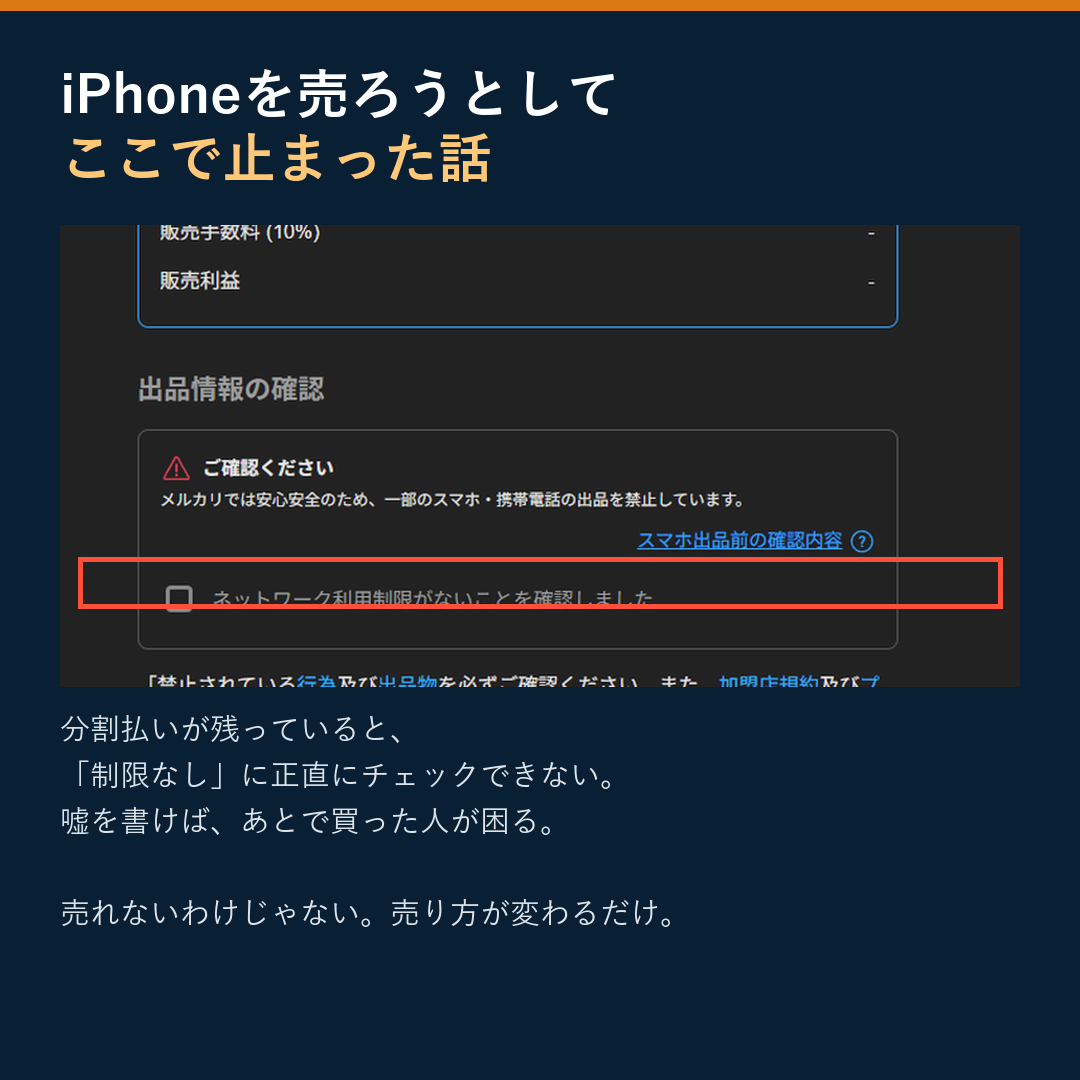
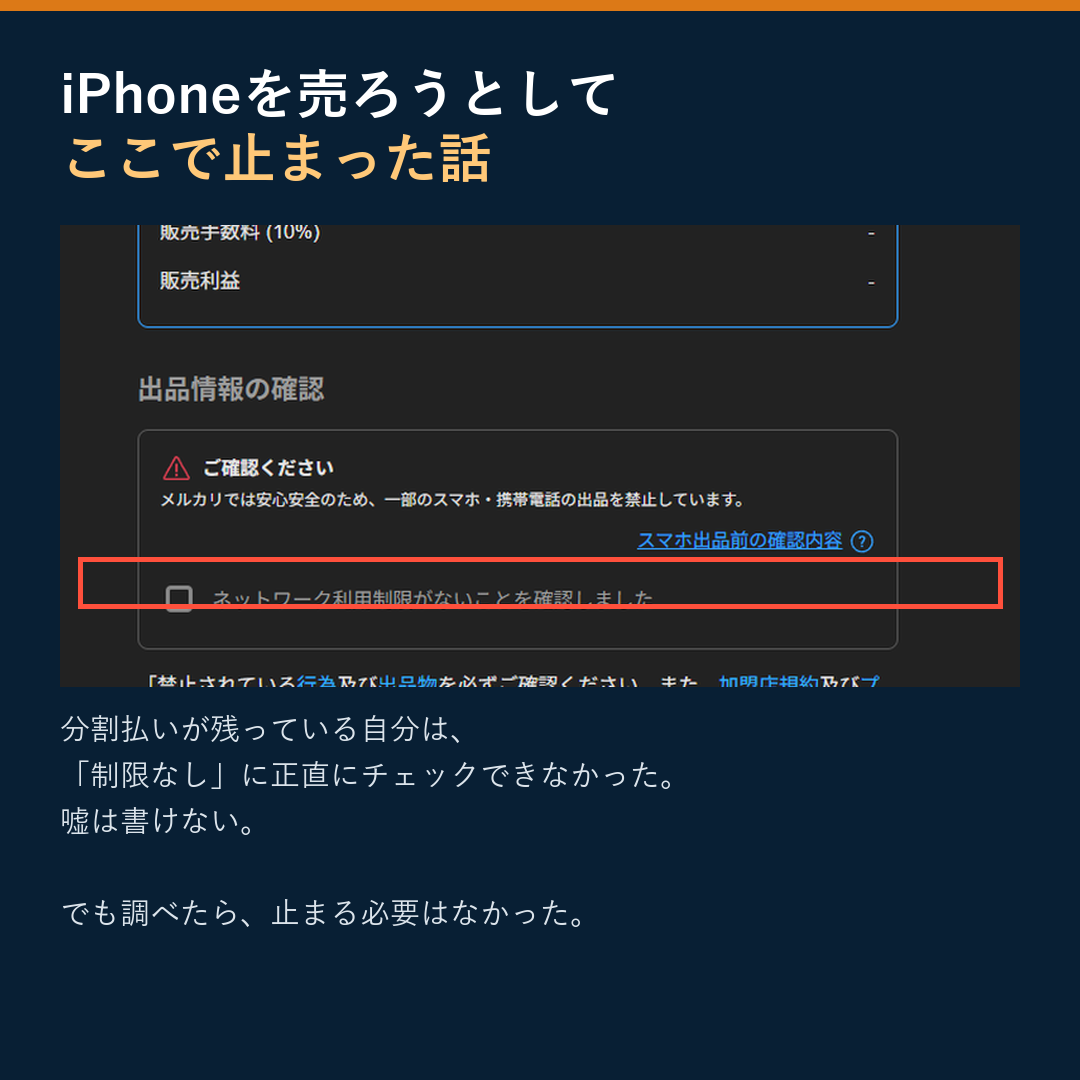
LP/content: 分割払いFAQ2問追加＋item1の利用制限条件を「○または−」に修正、コンテンツ画像の赤ロム混同を訂正
売却体験コンテンツ(docs/CONTENT-SELLING-STORY-DESIGN.md)の実装。
- index.html: FAQに「分割払いが残っているスマホは送れますか」「判定はどこで見られますか」を追加。
  item1 の受付条件を実体験(Apple直販SIMフリー=−)に合わせ「○または−」に。
- x-zandebug.png/ig-zandebug.png: 3段落目「払いが滞ると買った人の端末が使えなくなる」
  (キャリア分割の話でPaidy残債に非該当=赤ロム混同)を「嘘を書けば売れる。でも書けない」に差し替え。

diff --git a/index.html b/index.html
@@ -340,7 +340,7 @@
         <h2>送れるもの</h2>
         <p class="lead">中古市場があるものは、スマホに限らず受け付けます。値段に効くポイントも書いておきます。</p>
         <div class="grid">
-          <div class="card"><img class="card-img" src="assets/items/item1.webp" alt="中古のスマホとタブレット" width="768" height="512" loading="lazy" /><h3>スマホ・タブレット</h3><p>バッテリー最大容量・SIMロック・ネットワーク利用制限「○」が条件。初期化とロック解除をお願いします。</p></div>
+          <div class="card"><img class="card-img" src="assets/items/item1.webp" alt="中古のスマホとタブレット" width="768" height="512" loading="lazy" /><h3>スマホ・タブレット</h3><p>バッテリー最大容量・SIMロック・ネットワーク利用制限「○」または「−（対象外）」が条件。初期化とロック解除をお願いします。</p></div>
           <div class="card"><img class="card-img" src="assets/items/item2.webp" alt="使っていたバッグと財布" width="768" height="512" loading="lazy" /><h3>ブランドバッグ・財布</h3><p>保証書・ギャランティカード・箱があると相場が大きく変わります。角スレと内側の写真を。</p></div>
           <div class="card"><img class="card-img" src="assets/items/item3.webp" alt="腕時計" width="768" height="512" loading="lazy" /><h3>腕時計</h3><p>稼働の有無・保証書・コマの数・オーバーホール歴。裏蓋の刻印を1枚。</p></div>
           <div class="card"><img class="card-img" src="assets/items/item4.webp" alt="指輪とネックレス" width="768" height="512" loading="lazy" /><h3>ジュエリー・貴金属</h3><p>刻印（K18・Pt900 等）と重さ。地金はオークションではなく当日相場で地金業者へ出します。</p></div>
@@ -448,6 +448,13 @@
           <summary>写真では見えない傷があったら？</summary>
           <p>写真の目安額は、写真に写っている状態が前提です。到着後に開封動画を撮りながら、裏側・内側・動作など写真に写らない所まで検品します。写真に無い傷や不具合があれば、出品前に新しい目安額をお伝えします。新しい目安が最低希望額を下回るときは、送料当社負担で返送します。黙って減額して出品することはありません。</p>
         </details>
+        <details>
+          <summary>分割払いが残っているスマホは送れますか？</summary>
+          <p>送れるかどうかは、残債の有無ではなく、キャリアの「ネットワーク利用制限」の判定で決まります。判定が「○」または「−（対象外）」なら受け付けます。「△」「×」は受け付けません。Apple直販のSIMフリー機をカードやPaidyで分割払いしている場合、判定は通常「−」です。支払いは残りますが、端末は止まりません。</p>
+        </details>
+        <details>
+          <summary>ネットワーク利用制限の判定はどこで見られますか？</summary>
+          <p>iPhoneは「設定 → 一般 → 情報」のIMEIを、docomo・au・SoftBank・楽天モバイルの確認ページに入力します。どこで買ったか分からなければ4社とも見てください。見方が分からないときは、LINEで「判定」と送ってください。</p>
         <details><summary>最低希望額を下回りそうなら？</summary><p>発送前に最低希望額を決めます。下回る場合は売らず、送料は当社負担で返送します。</p></details>
         <details><summary>お金はいつ入りますか？</summary><p>落札確定 → 業者からの入金確認 → 3営業日以内にお振込み、の順です。発送から通常 2〜3週間です。予定日は、目安額のお返事で日付をお伝えします。</p></details>
         <details><summary>本人確認書類はなぜ必要ですか？</summary><p>古物営業法で決められています。品物と一緒に、コピーを1枚同梱してください。振込先は本人名義の口座に限ります。法定の保管期間が過ぎたら廃棄します。</p></details>
